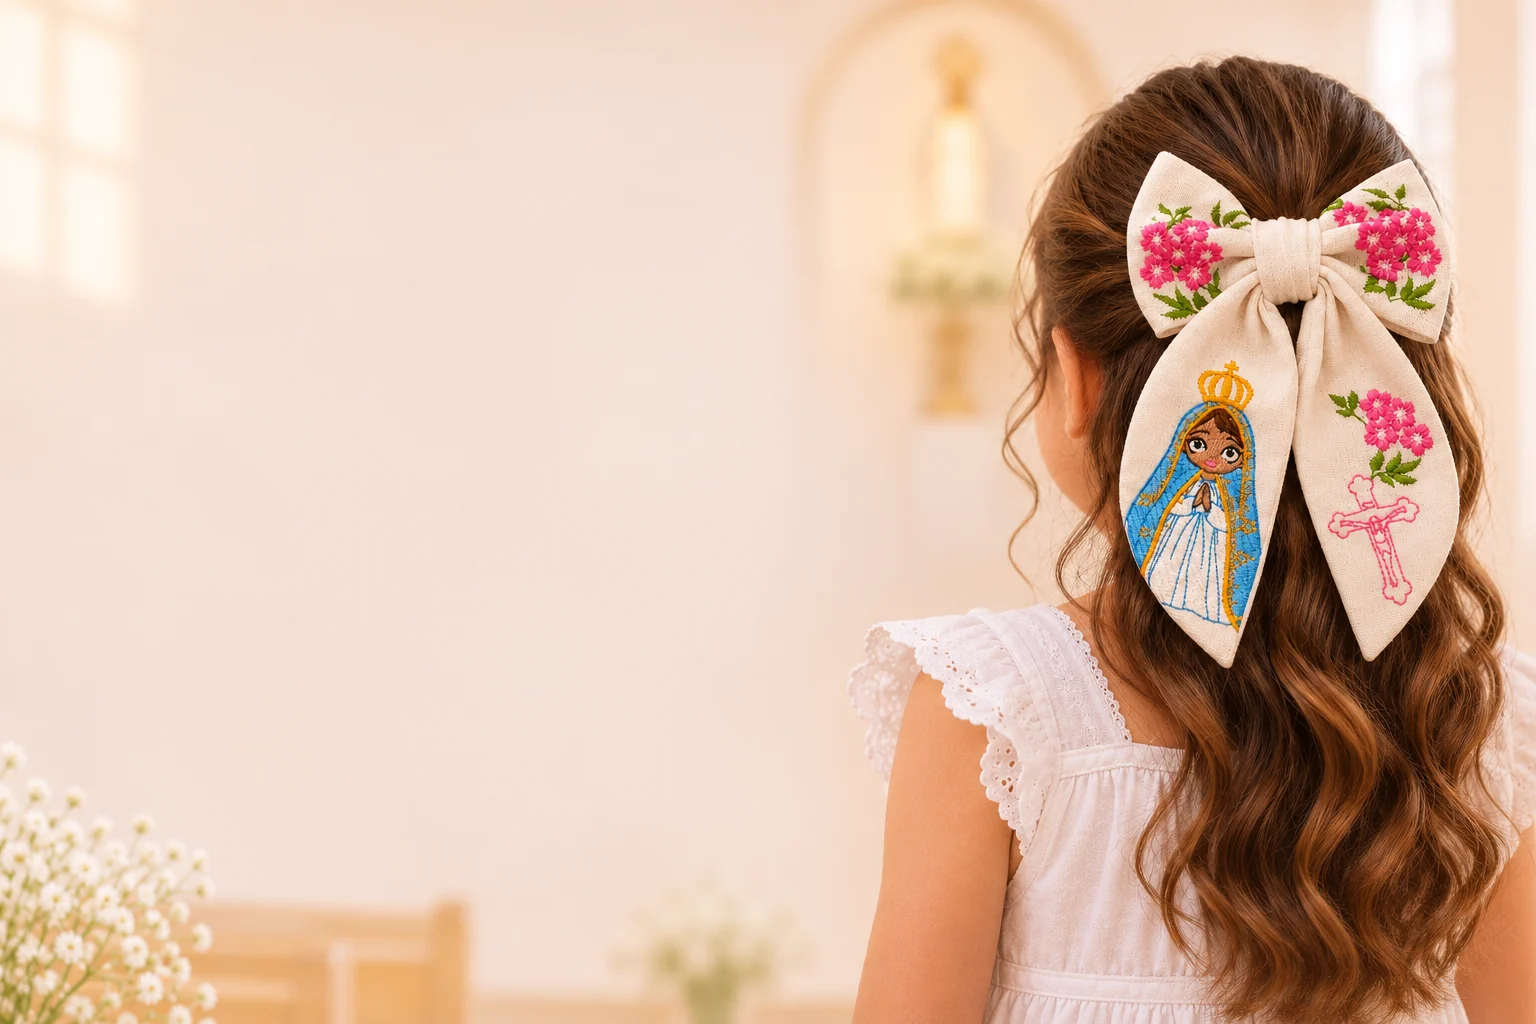
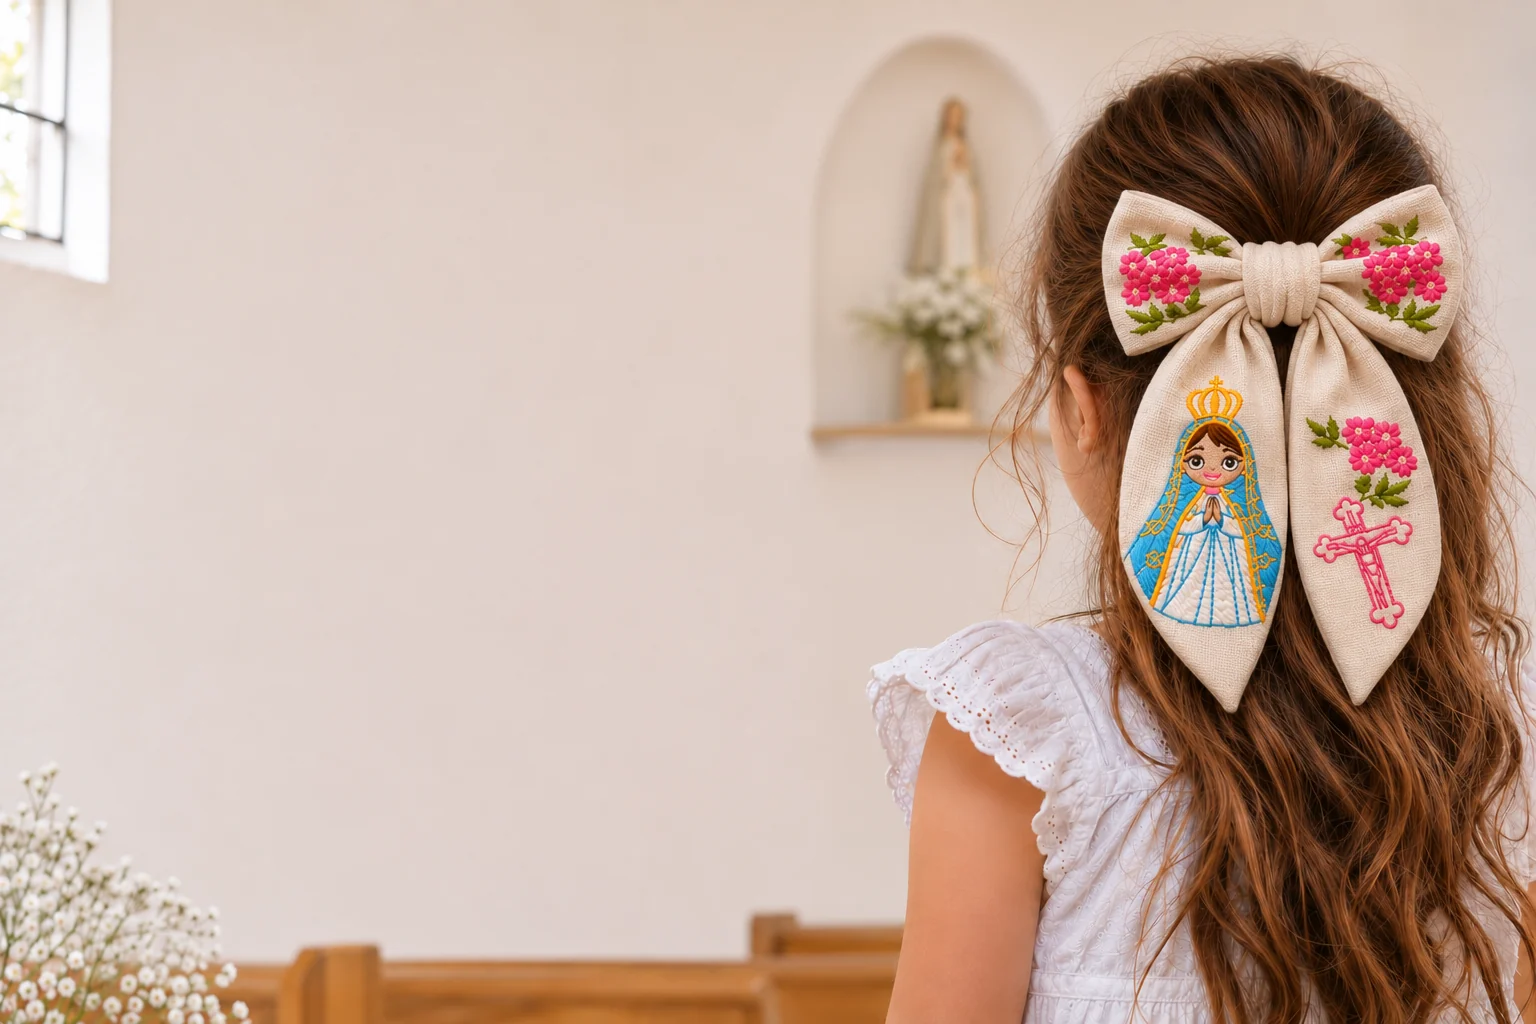
feat(design): fotos realistas do Laço Mãe Aparecida no topo, na coleção e na embalagem
Topo com o laço em uso, três cores da coleção Mãe & Rainha sobre linho e
unboxing no saquinho de organza. Imagens geradas a partir das fotos reais
do produto, sem alterar bordados, cores ou formato.

diff --git a/index.html b/index.html
@@ -152,10 +152,10 @@ textarea{min-height:112px;padding-block:var(--space-sm);resize:vertical}
 .film-copy .text-link{margin-top:var(--space-md)}
 
 .custom-band{padding-block:var(--section-gap-s);background:var(--color-paper-2)}
-.custom-band-inner{display:grid;grid-template-columns:minmax(0,4fr) minmax(0,6fr);justify-content:space-between;gap:var(--space-xl) var(--space-3xl);align-items:center}
+.custom-band-inner{display:grid;grid-template-columns:minmax(0,6fr) minmax(0,5fr);justify-content:space-between;gap:var(--space-xl) var(--space-3xl);align-items:center}
 .custom-band h2{max-width:11ch;font-size:var(--text-display);line-height:.98}
 .custom-band p{margin-block:var(--space-lg) var(--space-xl);font-size:var(--text-lead);color:var(--color-ink-2)}
-.custom-band-photo{width:100%;aspect-ratio:4/5;object-fit:cover;border-radius:var(--radius-arch)}
+.custom-band-photo{width:100%;aspect-ratio:4/3;object-fit:cover;border-radius:var(--radius-card)}
 
 .feature{padding-block:var(--section-gap-s) var(--space-3xl)}
 .feature-layout{display:grid;grid-template-columns:minmax(0,6fr) minmax(0,5fr);justify-content:space-between;gap:var(--space-xl) var(--space-3xl);align-items:center}
@@ -327,7 +327,6 @@ dialog::backdrop{background:var(--color-scrim)}
   .hero>.wrap{padding-block:var(--space-2xl)}
   .collection-grid{gap:var(--space-xl);margin-inline:calc(-1 * var(--gutter));padding-inline:var(--gutter);scroll-padding-inline:var(--gutter)}
   .section-heading,.film-row,.feature-layout,.custom-band-inner,.personalize-layout,.story,.founder-gallery,.faq-layout{grid-template-columns:minmax(0,1fr)}
-  .custom-band-photo{max-width:320px}
   .discovery-grid{grid-template-columns:minmax(0,1fr)}
   .discovery-card,.quick-links{padding:var(--space-xl) 0;border-left:0;border-top:1px solid var(--color-rule)}
   .discovery-grid>:first-child{border-top:0}
@@ -406,7 +405,7 @@ dialog::backdrop{background:var(--color-scrim)}
     </section>
     <template id="filmTemplate"><div class="film-row"><div><video controls playsinline preload="none" poster="assets/sinfonia-poster.webp" width="540" height="960" aria-label="Vídeo da coleção Sinfonia das Matas"><source src="assets/sinfonia-reel.mp4" type="video/mp4">Seu navegador não suporta vídeo. <a href="assets/sinfonia-reel.mp4">Abrir vídeo da coleção</a></video></div><div class="film-copy"><h3>A coleção em movimento.</h3><p>Descubra as cores e os desenhos da Sinfonia das Matas. Depois, conte para a gente qual personagem combina com a sua ideia.</p><p class="muted">Solicite fotos e informações da peça no atendimento.</p><a class="text-link" href="#sinfonia">Escolher meu laço <img class="icon" src="assets/icons/arrow-right.svg" alt=""></a></div></div></template>
     <noscript><p class="wrap">Ative o JavaScript para montar sua sacola ou consulte as peças pelo WhatsApp.</p></noscript>
-    <section class="custom-band" aria-labelledby="customBandTitle"><div class="wrap custom-band-inner"><img class="custom-band-photo" data-reveal src="assets/ambiente-linho.webp" width="1122" height="1402" alt="Linha bordô, agulha e fita de cetim sobre linho claro" loading="lazy"><div data-reveal><h2 id="customBandTitle">Do seu jeito, ponto por ponto.</h2><p>Um nome, uma lembrança, uma ideia para bordar.</p><a class="button" href="#personalizados">Criar meu personalizado <img class="icon" src="assets/icons/arrow-right.svg" alt=""></a></div></div></section>
+    <section class="custom-band" aria-labelledby="customBandTitle"><div class="wrap custom-band-inner"><img class="custom-band-photo" data-reveal src="assets/embalagem-unboxing.webp" width="1448" height="1086" alt="Mãos tirando o Laço Mãe Aparecida do saquinho de organza da Bordô" loading="lazy"><div data-reveal><h2 id="customBandTitle">Do seu jeito, ponto por ponto.</h2><p>Um nome, uma lembrança, uma ideia para bordar.</p><a class="button" href="#personalizados">Criar meu personalizado <img class="icon" src="assets/icons/arrow-right.svg" alt=""></a></div></div></section>
     <section class="section personalize" id="personalizados" aria-labelledby="personalizadosTitle"><div class="wrap personalize-layout"><div class="personalize-copy" data-reveal><h2 id="personalizadosTitle">O que vamos bordar?</h2><p>A próxima criação começa com você. Conte um pouco da sua ideia. A gente conversa sobre desenhos, materiais, possibilidades e prazo antes de confirmar a encomenda.</p><ol class="steps"><li>Escolha o tipo de projeto.</li><li>Conte os detalhes que imaginou.</li><li>Continue a conversa no WhatsApp.</li></ol></div>
       <form class="custom-form" id="customForm" data-reveal><fieldset><legend>Qual é a sua ideia?</legend><div class="choices" id="chipsType"><label class="choice"><input type="radio" name="project" value="Laços e coleções" checked><span>Laços e coleções</span></label><label class="choice"><input type="radio" name="project" value="Enxoval / Maternidade"><span>Enxoval e maternidade</span></label><label class="choice"><input type="radio" name="project" value="Batizado & Celebrações"><span>Batizado e celebrações</span></label><label class="choice"><input type="radio" name="project" value="Lembrancinhas Afetivas"><span>Presentes e lembranças</span></label><label class="choice"><input type="radio" name="project" value="Corporativo / Marca"><span>Empresas e marcas</span></label></div></fieldset><fieldset><legend>Quantas peças você imagina?</legend><div class="choices" id="chipsQty"><label class="choice"><input type="radio" name="quantity" value="1 a 5 peças" checked><span>1 a 5</span></label><label class="choice"><input type="radio" name="quantity" value="6 a 15 peças"><span>6 a 15</span></label><label class="choice"><input type="radio" name="quantity" value="16 a 50 peças"><span>16 a 50</span></label><label class="choice"><input type="radio" name="quantity" value="Acima de 50 peças"><span>Mais de 50</span></label></div></fieldset><label class="field-label" for="simDetailInput">Nome, desenho ou outros detalhes <span class="muted">(opcional)</span></label><textarea id="simDetailInput" name="details" maxlength="1200" placeholder="Ex.: um laço com margaridas, um nome para bordar ou a marca da minha empresa." rows="3"></textarea><div class="request-fields"><div><label class="field-label" for="requestCity">Cidade de entrega (opcional)</label><input id="requestCity" name="city" maxlength="120" autocomplete="address-level2" placeholder="Ex.: Teixeiras, MG"></div><div><label class="field-label" for="requestDate">Para quando precisa? (opcional)</label><input id="requestDate" name="date" type="date"><p class="form-note">A data será confirmada no atendimento.</p></div></div><div class="message-preview"><span>Sua ideia até aqui</span><p id="simMsgPreviewText"></p></div><a class="button" id="customWhatsApp" href="https://wa.me/5531997954792" target="_blank" rel="noopener">Conversar pelo WhatsApp <img class="icon" src="assets/icons/arrow-up-right.svg" alt=""></a><p class="form-note">Você poderá revisar a mensagem no WhatsApp antes de enviar.</p></form>
     </div></section>

diff --git a/build.py b/build.py
@@ -59,7 +59,7 @@ def check_assets():
         'sinfonia-reel.mp4', 'jardim-margarida.webp', 'jardim-girassol.webp',
         'jardim-rosa.webp', 'site.js', 'content.js', 'fonts/Lora.ttf', 'fonts/Manrope.ttf',
         'tokens.css', 'base.css', 'fonts/CormorantGaramond.woff2',
-        'hero-mae-aparecida.webp', 'mae-rainha-lacos.webp', 'ambiente-linho.webp'
+        'hero-mae-aparecida.webp', 'mae-rainha-lacos.webp', 'embalagem-unboxing.webp'
     ]
     all_ok = True
     print("\nVerificando arquivos em assets/:")
